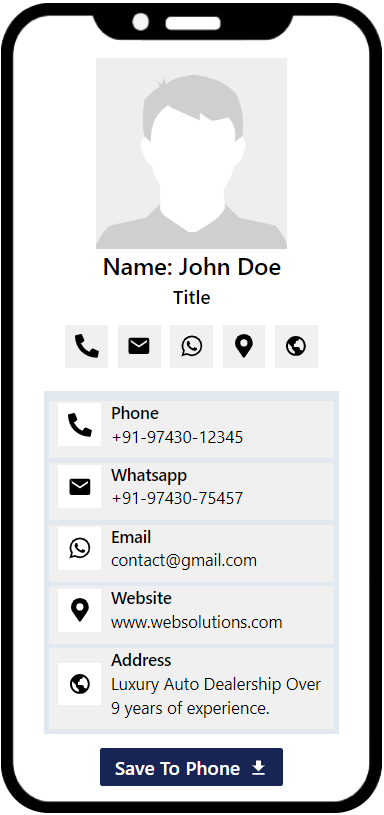
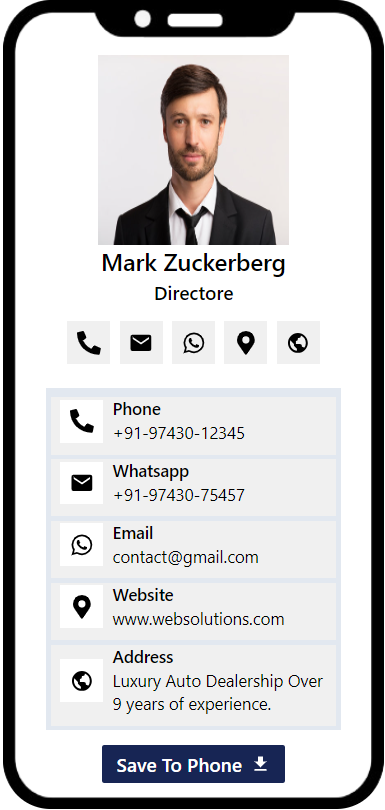
design chages

diff --git a/src/components/PersonalCard/PersonalDetailsCard/index.js b/src/components/PersonalCard/PersonalDetailsCard/index.js
@@ -2,7 +2,7 @@ import React from "react";
 import { BiWorld } from "react-icons/bi";
 import { FaMapMarkerAlt, FaPhoneAlt, FaWhatsapp } from "react-icons/fa";
 import { IoMdDownload, IoMdMail } from "react-icons/io";
-import avatar from "../../../assets/image/avatar.png";
+import businessmen from "../../../assets/image/businessmen.jpg";
 import phone from "../../../assets/image/phone.png";
 
 function PersonalDetailsCrad() {
@@ -47,11 +47,11 @@ function PersonalDetailsCrad() {
         >
           <div>
             <div className="flex justify-center text-center">
-              <img src={avatar} className="w-40 h-40 mt-6" alt="Not Found" />
+              <img src={businessmen} className="w-40 h-40 mt-6" alt="Not Found" />
             </div>
-            <p className="text-xl font-semibold">Name: John Doe</p>
+            <p className="text-xl font-semibold">Mark Zuckerberg</p>
             {/* <p>Proprietor</p> */}
-            <p className="font-semibold">Title</p>
+            <p className="font-semibold">Directore</p>
 
             <div className="space-x-2 mt-3">
               <button className="bg-theme p-2 text-xl">

diff --git a/src/components/PersonalCard/PersonalLinksCard/index.js b/src/components/PersonalCard/PersonalLinksCard/index.js
@@ -2,32 +2,20 @@ import React, { useEffect, useState } from "react";
 import phone from "../../../assets/image/phone.png";
 import businesswomen from "../../../assets/image/businesswomen.webp";
 import {
-  FaFacebook,
   FaInstagram,
-  FaLinkedin,
-  FaPaypal,
   FaRegAddressCard,
 } from "react-icons/fa";
 import {
   IoCallOutline,
   IoMailOutline,
-  IoShareSocialOutline,
 } from "react-icons/io5";
-import { LuTable } from "react-icons/lu";
-import { MdAlternateEmail } from "react-icons/md";
 import {
-  PiDevicesLight,
   PiFacebookLogoBold,
   PiLinkedinLogo,
 } from "react-icons/pi";
-import { CiMobile4 } from "react-icons/ci";
-import { AiOutlineQrcode } from "react-icons/ai";
 import { useNavigate, useParams } from "react-router-dom";
 import { getProfileDetails } from "../../../services/ProfileServices";
 import Loader from "../../Loader";
-import { TiSocialLinkedin } from "react-icons/ti";
-import { TbWorld } from "react-icons/tb";
-import { LiaFacebook } from "react-icons/lia";
 import { TfiWorld } from "react-icons/tfi";
 import { SlPaypal } from "react-icons/sl";
 

diff --git a/src/App.js b/src/App.js
@@ -66,6 +66,8 @@ function App() {
               path="/PersonalThemeCard/:name/:id"
               element={<PersonalThemeCard />}
             />
+
+            <Route path="/PersonalLinksCard" element={<PersonalLinksCard/>} />
           </Route>
         </Routes>
       </BrowserRouter>
